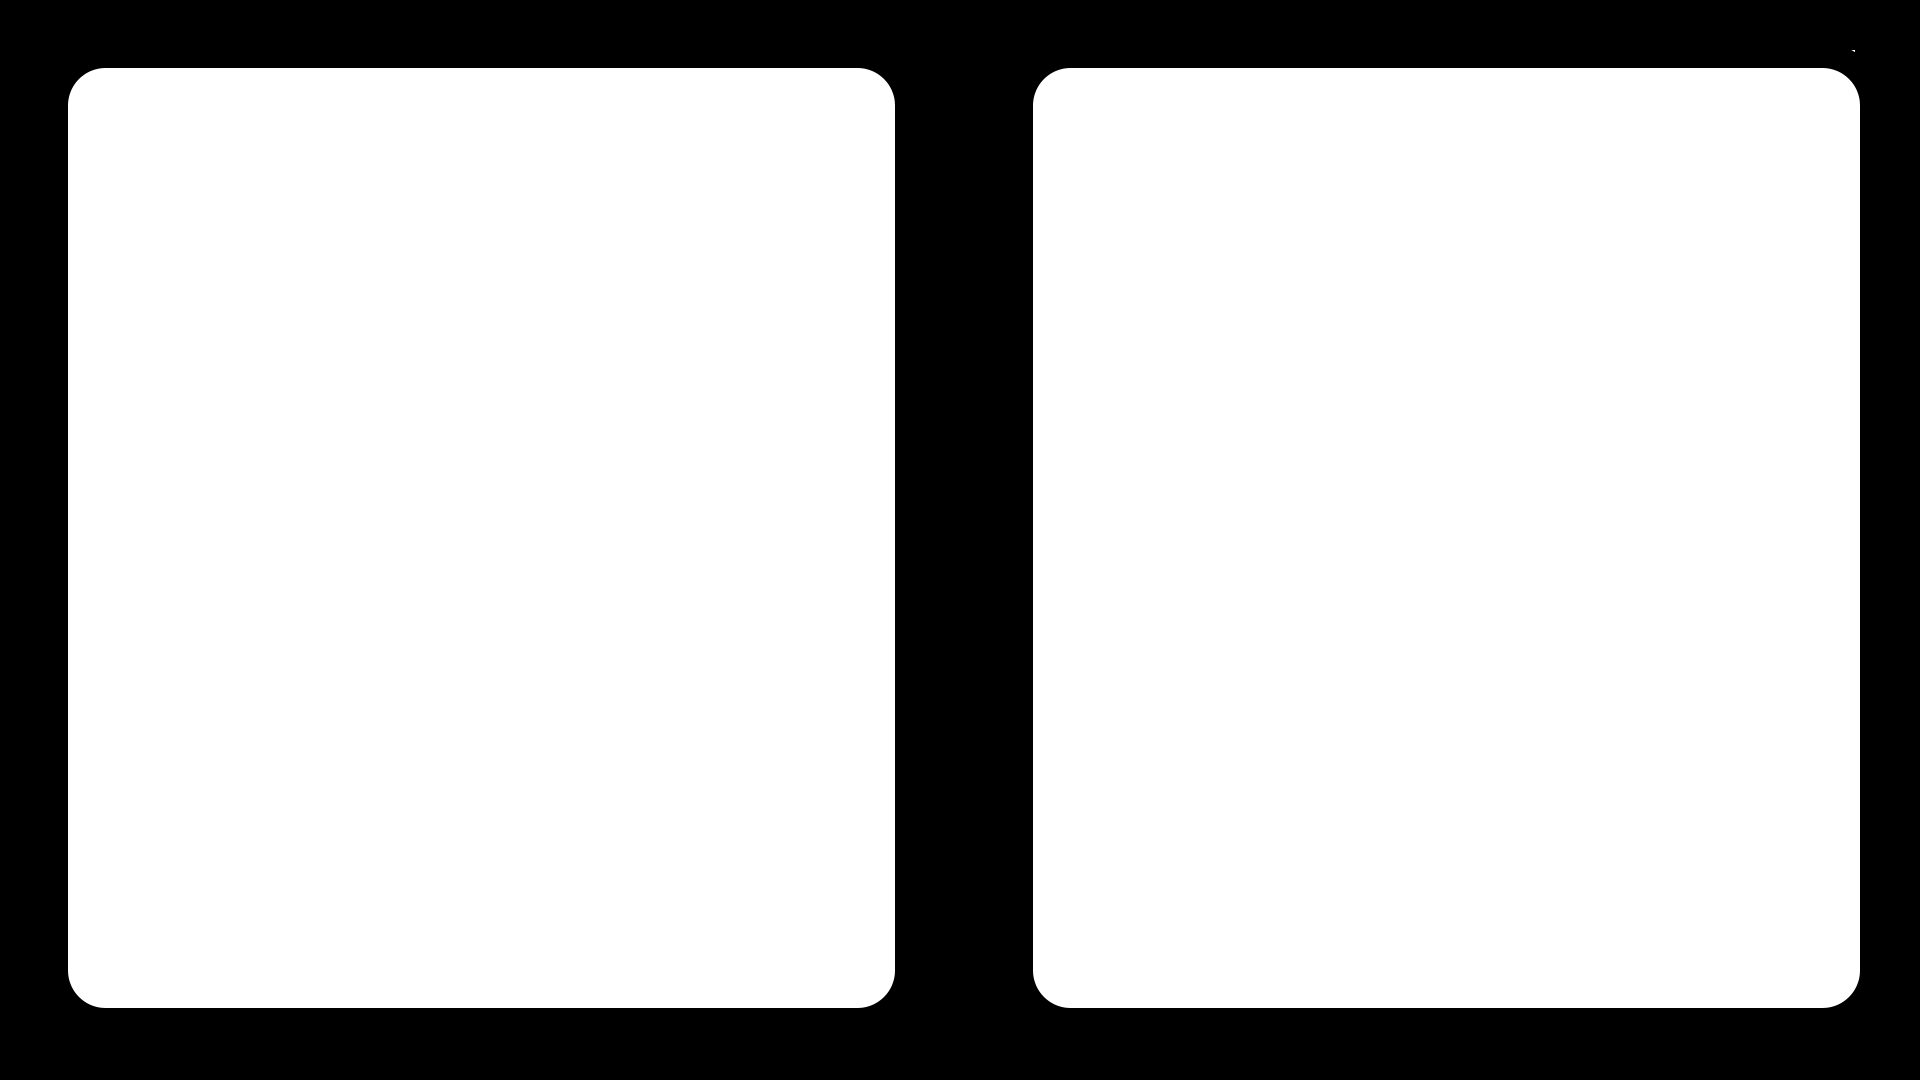
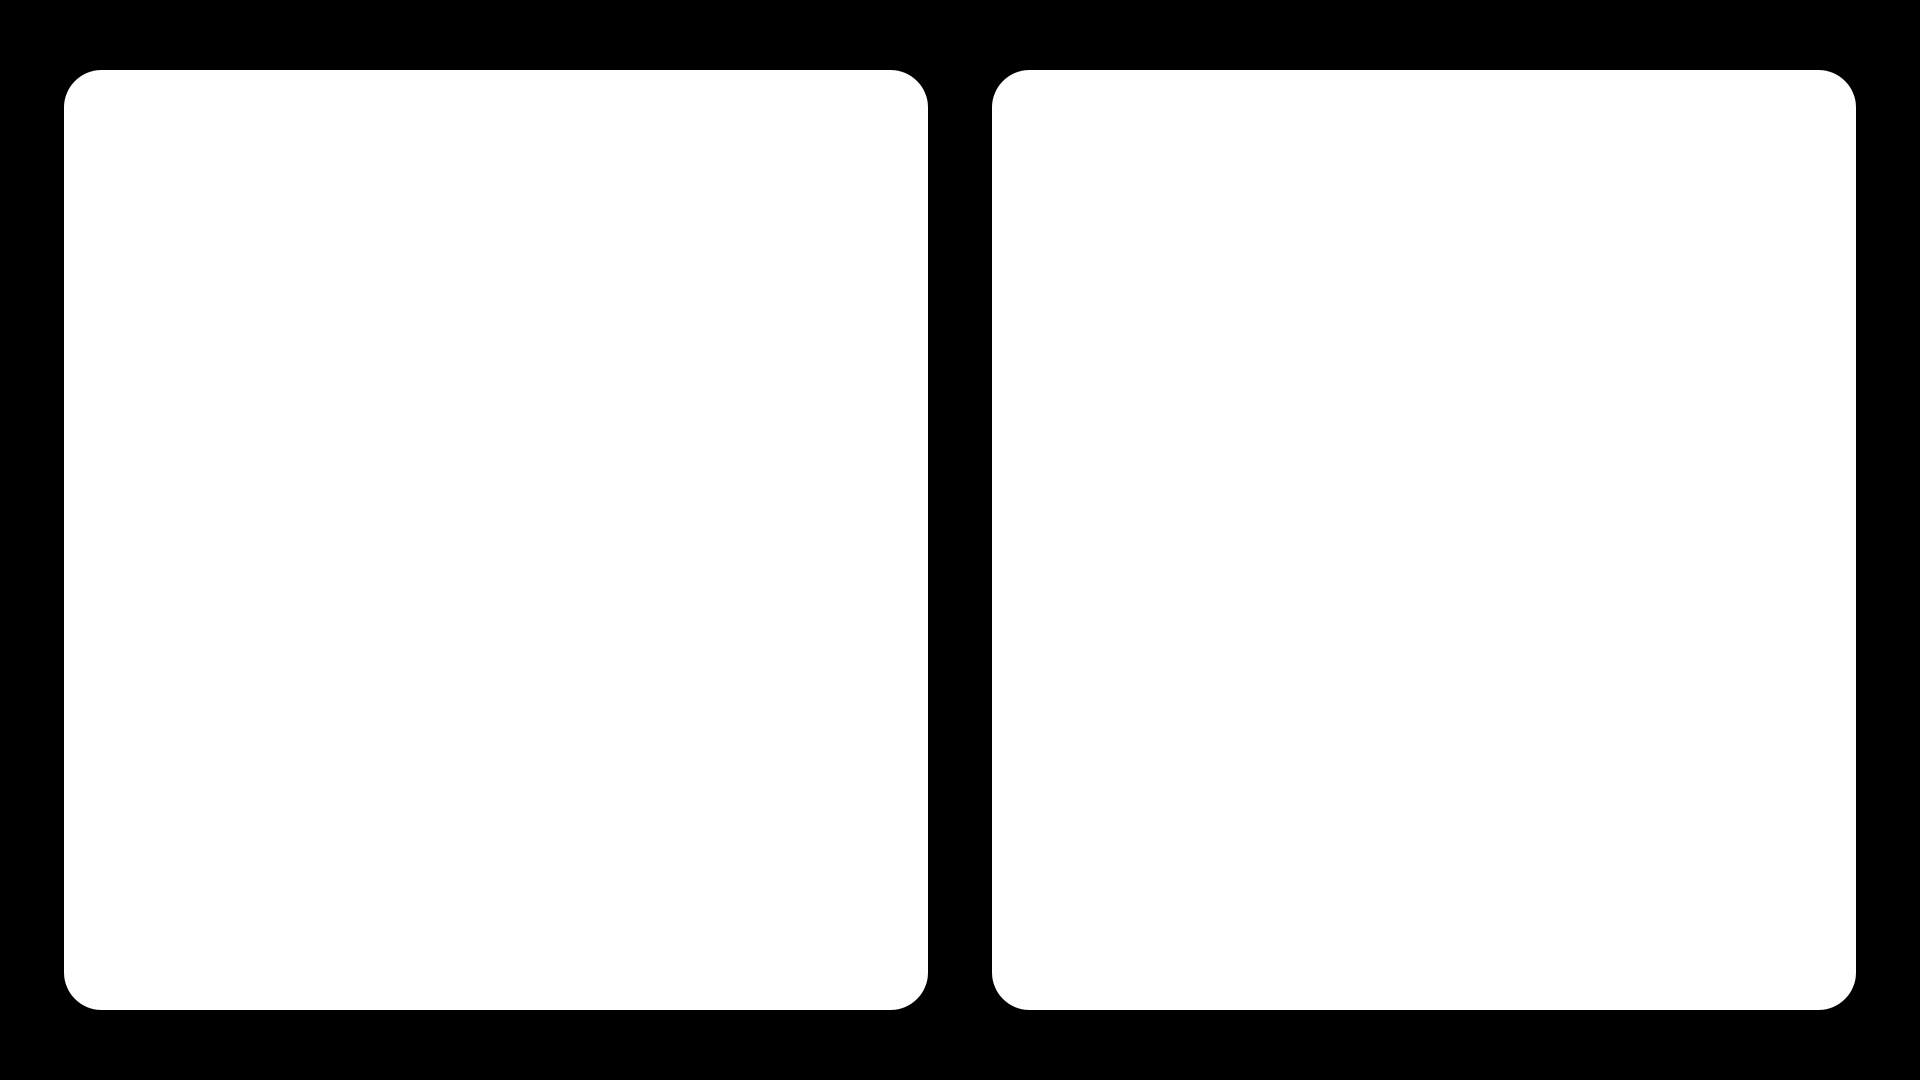
Refonte UI multi : Vignette_Multi_001 recentree (noir de 64 px partout en largeur, 70 en hauteur, trous 864x940, pixels transparents bouches), compression None ; doc : releve UI_Multi

Changed region(s): [[0.4375, 0.0611, 0.5625, 0.9472], [0.9375, 0.0611, 0.9688, 0.0917], [0.0312, 0.9167, 0.0625, 0.9472]]

diff --git a/REFONTE_UI.md b/REFONTE_UI.md
@@ -49,6 +49,9 @@
 4. Layout Groups dans les menus (pause, victoire, options, Solo). **Fait le 2026-11-20** pour Pause, Options, Solo : conteneur `Lignes` (Vertical Layout Group Middle Center + Content Size Fitter Preferred Size) ; difficulté du Solo dans `Difficulte` (Horizontal, Control Child Size Width). Le code de décalage des lignes est retiré (OptionsPanelUI, SoloPanelUI). Game Over : une seule ligne, rien à faire. **Victoire reportée** (écran à revoir). Leçon : un Layout Group ne centre que si le contenu tient dans le conteneur, d'où le Content Size Fitter.
 5. Overrides des 6 scènes : relire, retirer. **Fait le 2026-11-20** (scènes OLD ignorées) : GoWithTheFlow01 (cadre écrasé à hauteur 0, barre de vie à 50 PV par pip = bug des 2 pips), Flower02 (matériau stencil, icône dollar, positions crédit), WesternCanyon (positions/tailles des barres, icônes, IconContainer, texte crédit, CommentManager en double ; Bubble Container gardé, sert au BubbleManager), LavaTrain03 (position CreditBar, CommentManager en double). Overrides des Layout Groups « à chaque sauvegarde » : **non reproduit le 2026-11-20** (LavaTrain03 sauvegardée, rien ; aucun override sur `Lignes` dans aucune scène). Note fausse, retirée.
 6. Multi (`UI_Multi`, copie indépendante) avec la même méthode.
+   - **Vignette recentrée** (2026-11-20) : `Vignette_Multi_001` était décalée (marges 68/60 en largeur, 68/72 en hauteur, quelques pixels transparents en haut à droite). Refaite : noir de **64 px partout en largeur** (bords et milieu), 70 px en haut et en bas, trous **864 × 940** (x 64-927 et 992-1855, y 70-1009), coins d'origine. Compression None. Même GUID.
+   - Écart accepté : les caméras filment chacune une moitié d'écran (centre x 480 pour J1), le centre du trou est à 496, soit 16 px. Invisible en jeu. Correction possible par le Viewport Rect des caméras (X 0.0333 / 0.5167, W 0.45), écartée pour l'instant : lie les caméras au dessin de la vignette.
+   - Relevé : 4 scènes (CoinRace_Lava, Race_Lava, Race_Slippery, Race_Void). `CadreTV` étiré sur le Canvas, pas de `ScreenArea`, éléments sous `CadreTV` posés à la main ; une seule barre de vie (stamina, gauge, tomates en double J1/J2) ; Pause sans Layout Group.
 
 ## Bug lié
 
